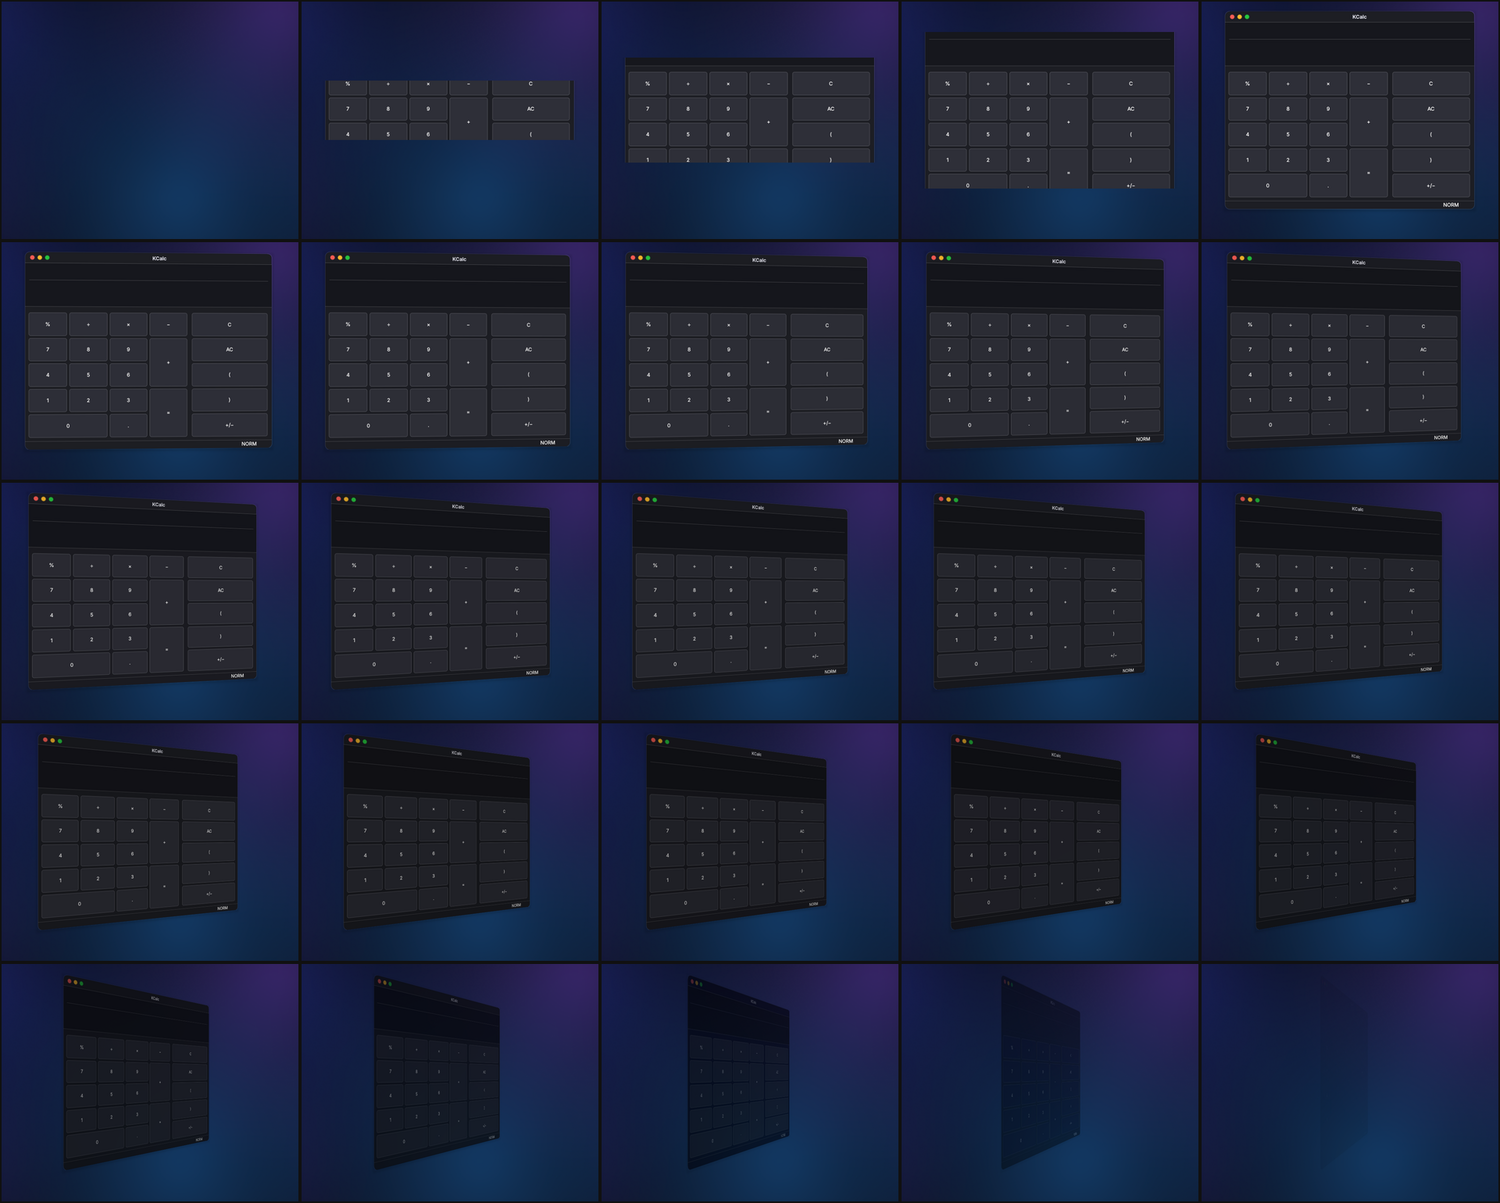
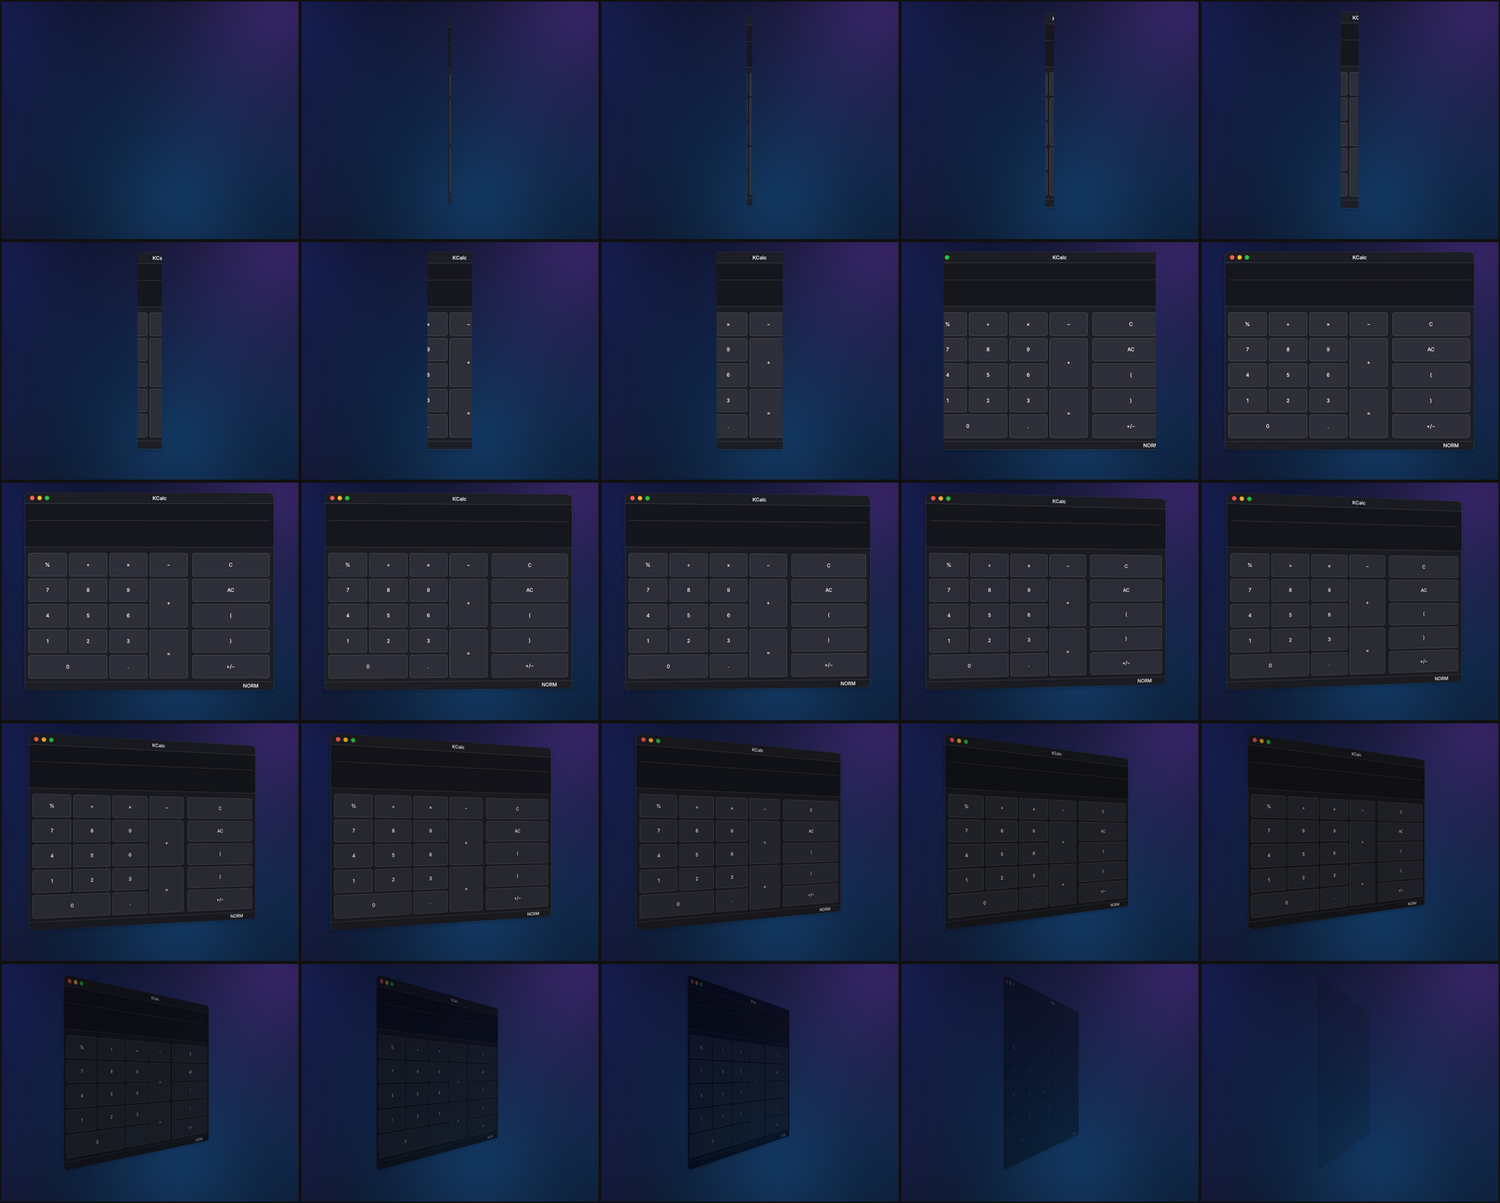
effects: Legacy burn with real flame tongues, cube windows lift off their faces, 3D open swings on the right axis

diff --git a/desktop/rootfs/usr/share/kwin/effects/kwick_flip/contents/code/main.js b/desktop/rootfs/usr/share/kwin/effects/kwick_flip/contents/code/main.js
@@ -11,7 +11,7 @@ const skipClasses = [
 class KwickFlipEffect {
     constructor() {
         effect.configChanged.connect(this.loadConfig.bind(this));
-        effect.animationEnded.connect(this.release.bind(this));
+        effect.animationEnded.connect(this.onEnded.bind(this));
         effects.windowAdded.connect(this.onWindowAdded.bind(this));
         effects.windowClosed.connect(this.onWindowClosed.bind(this));
         effects.windowDataChanged.connect(this.onWindowDataChanged.bind(this));
@@ -50,6 +50,31 @@ class KwickFlipEffect {
         w.setData(Effect.WindowForceBlurRole, null);
     }
 
+    onEnded(w) {
+        if (w.kwickPhase === 1) {
+            w.kwickPhase = 2;
+            w.KwickFlipIn = this.openNative(w);
+            return;
+        }
+        w.kwickPhase = 0;
+        this.release(w);
+    }
+
+    prepare(w) {
+        this.hold(w);
+        w.kwickPhase = 1;
+        return animate({
+            window: w,
+            duration: 700,
+            curve: QEasingCurve.Linear,
+            animations: [{
+                type: Effect.Opacity,
+                from: 0.0,
+                to: 0.0
+            }]
+        });
+    }
+
     openNative(w) {
         this.hold(w);
         const dur = this.duration;
@@ -59,7 +84,7 @@ class KwickFlipEffect {
             curve: QEasingCurve.OutCubic,
             animations: [{
                 type: Effect.Rotation,
-                axis: this.styleId === 2 ? Effect.XAxis : Effect.YAxis,
+                axis: this.styleId === 2 ? 0 : 1,
                 from: this.styleId === 1 ? 72 : (this.styleId === 2 ? 62 : -72),
                 to: 0
             }, {
@@ -68,8 +93,8 @@ class KwickFlipEffect {
                 to: 1.0
             }, {
                 type: Effect.Scale,
-                from: 0.7,
-                to: 1.0
+                from: { value1: 0.7, value2: 0.7 },
+                to: { value1: 1.0, value2: 1.0 }
             }]
         });
     }
@@ -108,7 +133,7 @@ class KwickFlipEffect {
         if (effect.isGrabbed(w, Effect.WindowAddedGrabRole)) {
             return;
         }
-        w.KwickFlipIn = this.openNative(w);
+        w.KwickFlipIn = this.prepare(w);
     }
 
     onWindowClosed(w) {
@@ -122,6 +147,7 @@ class KwickFlipEffect {
             cancel(w.KwickFlipIn);
             delete w.KwickFlipIn;
         }
+        w.kwickPhase = 0;
         w.KwickFlipOut = this.run(w, false);
     }
 

diff --git a/desktop/rootfs/usr/share/kwin/effects/kwick_cubeslide/contents/ui/ScreenView.qml b/desktop/rootfs/usr/share/kwin/effects/kwick_cubeslide/contents/ui/ScreenView.qml
@@ -220,7 +220,7 @@ Item {
                         required property var model
                         readonly property QtObject w: model.window
                         readonly property bool plain: w.desktopWindow || w.dock
-                        readonly property real z0: plain ? (w.dock ? root.lift * 0.5 * root.pull : 0) : root.lift * root.pull * (0.55 + 0.45 * Math.min(8, Math.max(0, w.stackingOrder)) / 8) * 1.4
+                        readonly property real z0: plain ? (w.dock ? root.lift * 0.5 * root.pull : 0) : root.lift * root.pull * (0.7 + 0.3 * Math.min(8, Math.max(0, w.stackingOrder)) / 8) * 2.7
                         readonly property real cx: w.x - root.targetScreen.geometry.x + w.width / 2 - root.width / 2
                         readonly property real cy: root.height / 2 - (w.y - root.targetScreen.geometry.y + w.height / 2)
                         visible: !w.minimized
@@ -228,8 +228,8 @@ Item {
                         Model {
                             visible: !slot.plain && !slot.w.minimized && root.pull > 0.12
                             source: "#Rectangle"
-                            scale: Qt.vector3d((Math.max(1, slot.w.width) + 90) / 100, (Math.max(1, slot.w.height) + 90) / 100, 1)
-                            position: Qt.vector3d(slot.cx + 6, slot.cy - 18, slot.z0 * 0.5)
+                            scale: Qt.vector3d((Math.max(1, slot.w.width) + 70 + 0.35 * slot.z0) / 100, (Math.max(1, slot.w.height) + 70 + 0.35 * slot.z0) / 100, 1)
+                            position: Qt.vector3d(slot.cx + 0.12 * slot.z0, slot.cy - 0.22 * slot.z0, slot.z0 * 0.06)
                             materials: PrincipledMaterial {
                                 lighting: PrincipledMaterial.NoLighting
                                 cullMode: Material.NoCulling
